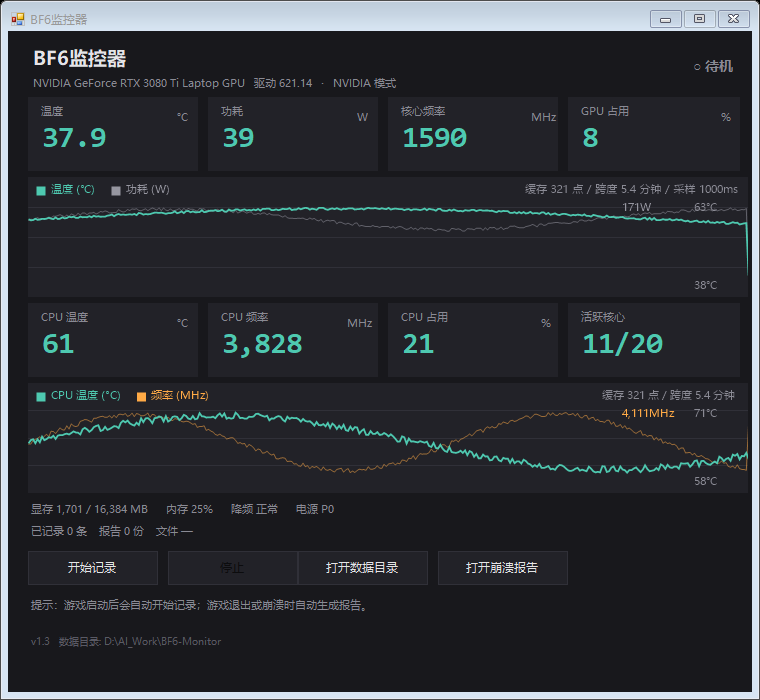
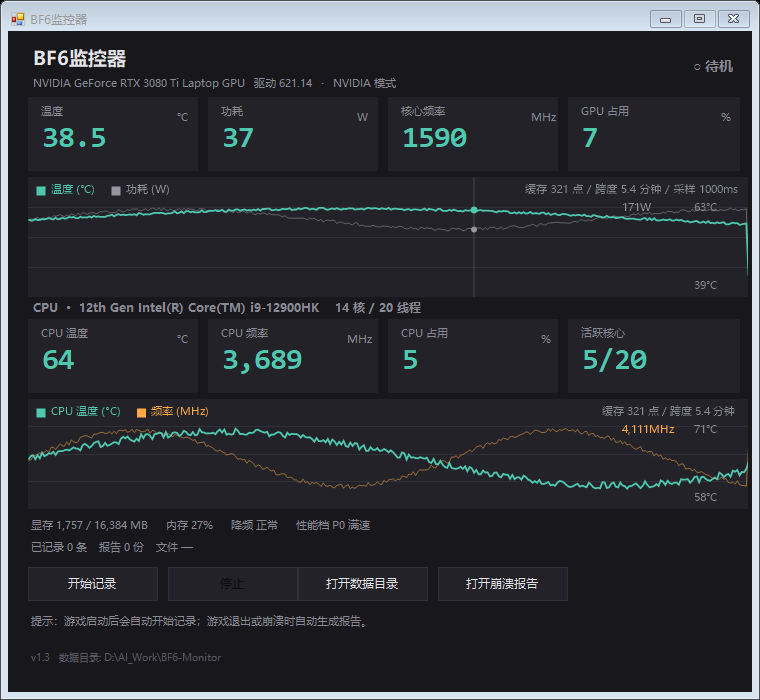
feat: v1.4 - 曲线图鼠标悬停读数、CPU 型号标题、性能档说明
- 曲线图支持十字准星 + 悬停提示框（显示该点数值与时间偏移）
- CPU 区域显示处理器型号与核心/线程数
- 电源状态表述改为「性能档 P0 满速/P2 降频/P8 待机」
- README 补充 P-State 与降频原因含义表

diff --git a/ChartRenderer.cs b/ChartRenderer.cs
@@ -1,4 +1,4 @@
-// BF6 监控器 —— 曲线绘制核心（编译成 .NET 类型，避免 PowerShell 逐点解释的开销）
+// BF6 监控器 —— 曲线绘制核心（编译成 .NET 类型，避免 PowerShell 逐点解释的开销）
 // 由 BF6Monitor.ps1 通过 Add-Type 加载
 using System;
 using System.Collections.Generic;
@@ -15,7 +15,8 @@ public static class ChartRenderer
     /// </summary>
     public static void Render(Bitmap bmp, double[] a, double[] b, int count,
                               Color card, Color grid, Color colorA, Color colorB, Color dim,
-                              string info, string labelA, string labelB, string unitA, string unitB)
+                              string info, string labelA, string labelB, string unitA, string unitB,
+                              int hover = -1)
     {
         using (Graphics g = Graphics.FromImage(bmp))
         using (Pen penGrid = new Pen(grid, 1f))
@@ -112,6 +113,25 @@ public static class ChartRenderer
                 {
                     g.DrawLines(penB, ptsB);
                     g.DrawLines(penA, ptsA);
+                }
+            }
+
+            // 悬停十字线
+            if (hover >= 0 && hover < count)
+            {
+                float hx = (float)(w * (hover / (double)(count - 1)));
+                using (Pen penH = new Pen(Color.FromArgb(110, 200, 200, 210), 1f))
+                {
+                    penH.DashStyle = DashStyle.Dot;
+                    g.DrawLine(penH, hx, 0, hx, h);
+                }
+                double yA = h - 12 - ((a[hover] - loA) / (hiA - loA)) * (h - 32);
+                double yB = h - 12 - ((b[hover] - loB) / (hiB - loB)) * (h - 32);
+                using (SolidBrush dotA = new SolidBrush(colorA))
+                using (SolidBrush dotB = new SolidBrush(colorB))
+                {
+                    g.FillEllipse(dotA, hx - 3.5f, (float)yA - 3.5f, 7f, 7f);
+                    g.FillEllipse(dotB, hx - 3f, (float)yB - 3f, 6f, 6f);
                 }
             }
 

diff --git a/README.md b/README.md
@@ -30,6 +30,7 @@
 | **CPU 实时监控** | 温度 / 实际频率 / 占用率 / 活跃核心数 |
 | **双走势图** | 上图 GPU（青=温度 灰=功耗），下图 CPU（青=温度 橙=频率），带颜色图例 |
 | **一万点缓存** | 每张图保留 10,000 个采样点，500ms 采样 ≈ 1.4 小时 |
+| **鼠标悬停读数** | 鼠标移到曲线图上，显示该点的精确数值和时间偏移 |
 | **自动记录** | 检测到 `bf6.exe` 自动开始，退出自动结算 |
 | **日志分流** | 游戏时写 `logs\bf6\`，不打游戏时写 `logs\system\`，互不污染 |
 | **崩溃取证** | 自动区分「崩溃」和「正常退出」，只对真崩溃告警 |
@@ -88,6 +89,36 @@
 | CPU 占用 | ≥ 70% | ≥ 90% |
 
 **两张曲线图**的颜色含义直接标在左上角图例里，不用记。
+
+**鼠标移到图上**（任一曲线图）会显示一条虚线十字准星，并在光标旁弹出该时间点的读数：
+
+```
+温度 61.9°C   功耗 128W   -122s     ← 负号表示"多少秒之前"
+```
+
+### 指标含义
+
+**性能档（P-State）** —— NVIDIA 的 GPU 性能状态：
+
+| 显示 | 含义 |
+|---|---|
+| `P0 满速` | 最高性能档，核心全速运行（打游戏时应该一直是这个） |
+| `P2` / `P3 降频` | 驱动主动降频（功耗墙、温度墙或驱动策略） |
+| `P8 待机` | 空闲档，核心降到最低 |
+
+如果游戏中**不是 P0**，说明驱动已经在限制性能了，要查降频原因。
+
+**降频（Throttle）** —— 当前是否在限制频率：
+
+| 显示 | 含义 |
+|---|---|
+| `正常` | 没有触发任何限制 |
+| `功耗墙` | 撞到 TGP 上限，笔记本游戏时**正常现象** |
+| `温度墙` | 温度过高，需要检查散热 |
+| `硬件降频` | GPU 已超出安全范围，离崩溃不远了 |
+
+**活跃核心** —— 单核占用率超过 20% 才计为"活跃"，格式 `活跃数/总线程数`。
+比如 `5/20` 表示 20 个线程里只有 5 个在真正干活（游戏通常吃不满所有线程）。
 
 **底部信息行**：显存占用 / 内存占用 / GPU 降频原因 / 电源状态。
 
@@ -216,6 +247,12 @@ BF6Monitor.ps1 -Shot out.png       # 离屏截图
 ---
 
 ## 更新日志
+
+### v1.4
+- 曲线图支持鼠标悬停读数（十字准星 + 跟随提示框）
+- CPU 区域增加处理器型号与核心数标题
+- 电源状态改为更明确的「性能档 P0 满速」表述
+- README 补充指标含义说明
 
 ### v1.3
 - 新增 CPU 四张卡片：温度 / 频率 / 占用 / 活跃核心
